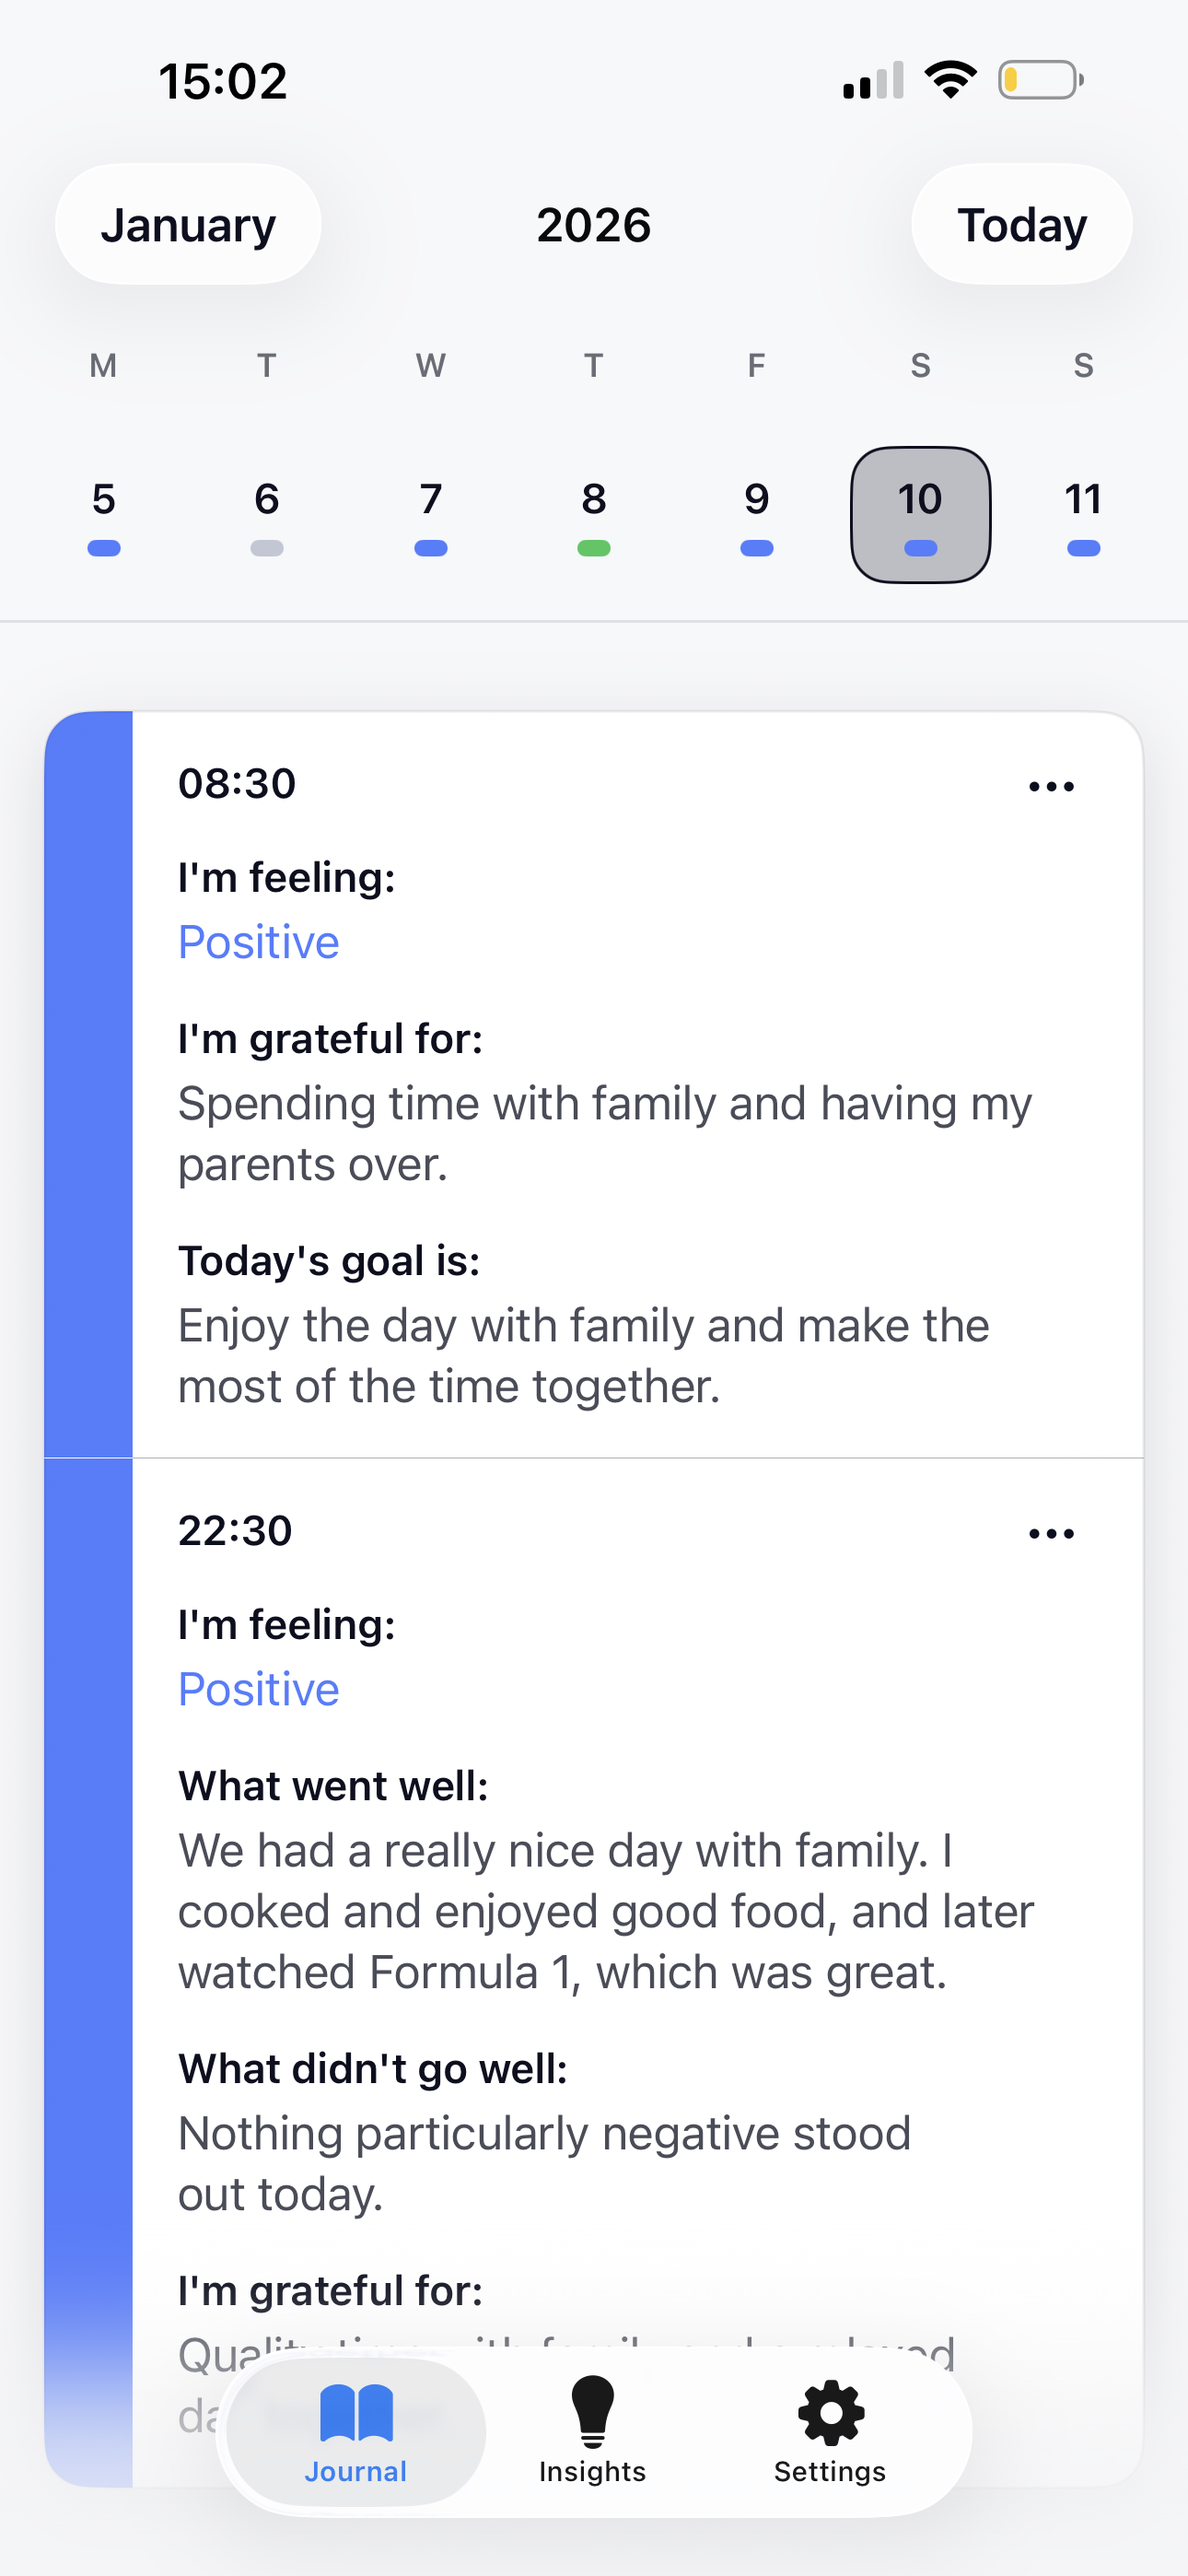
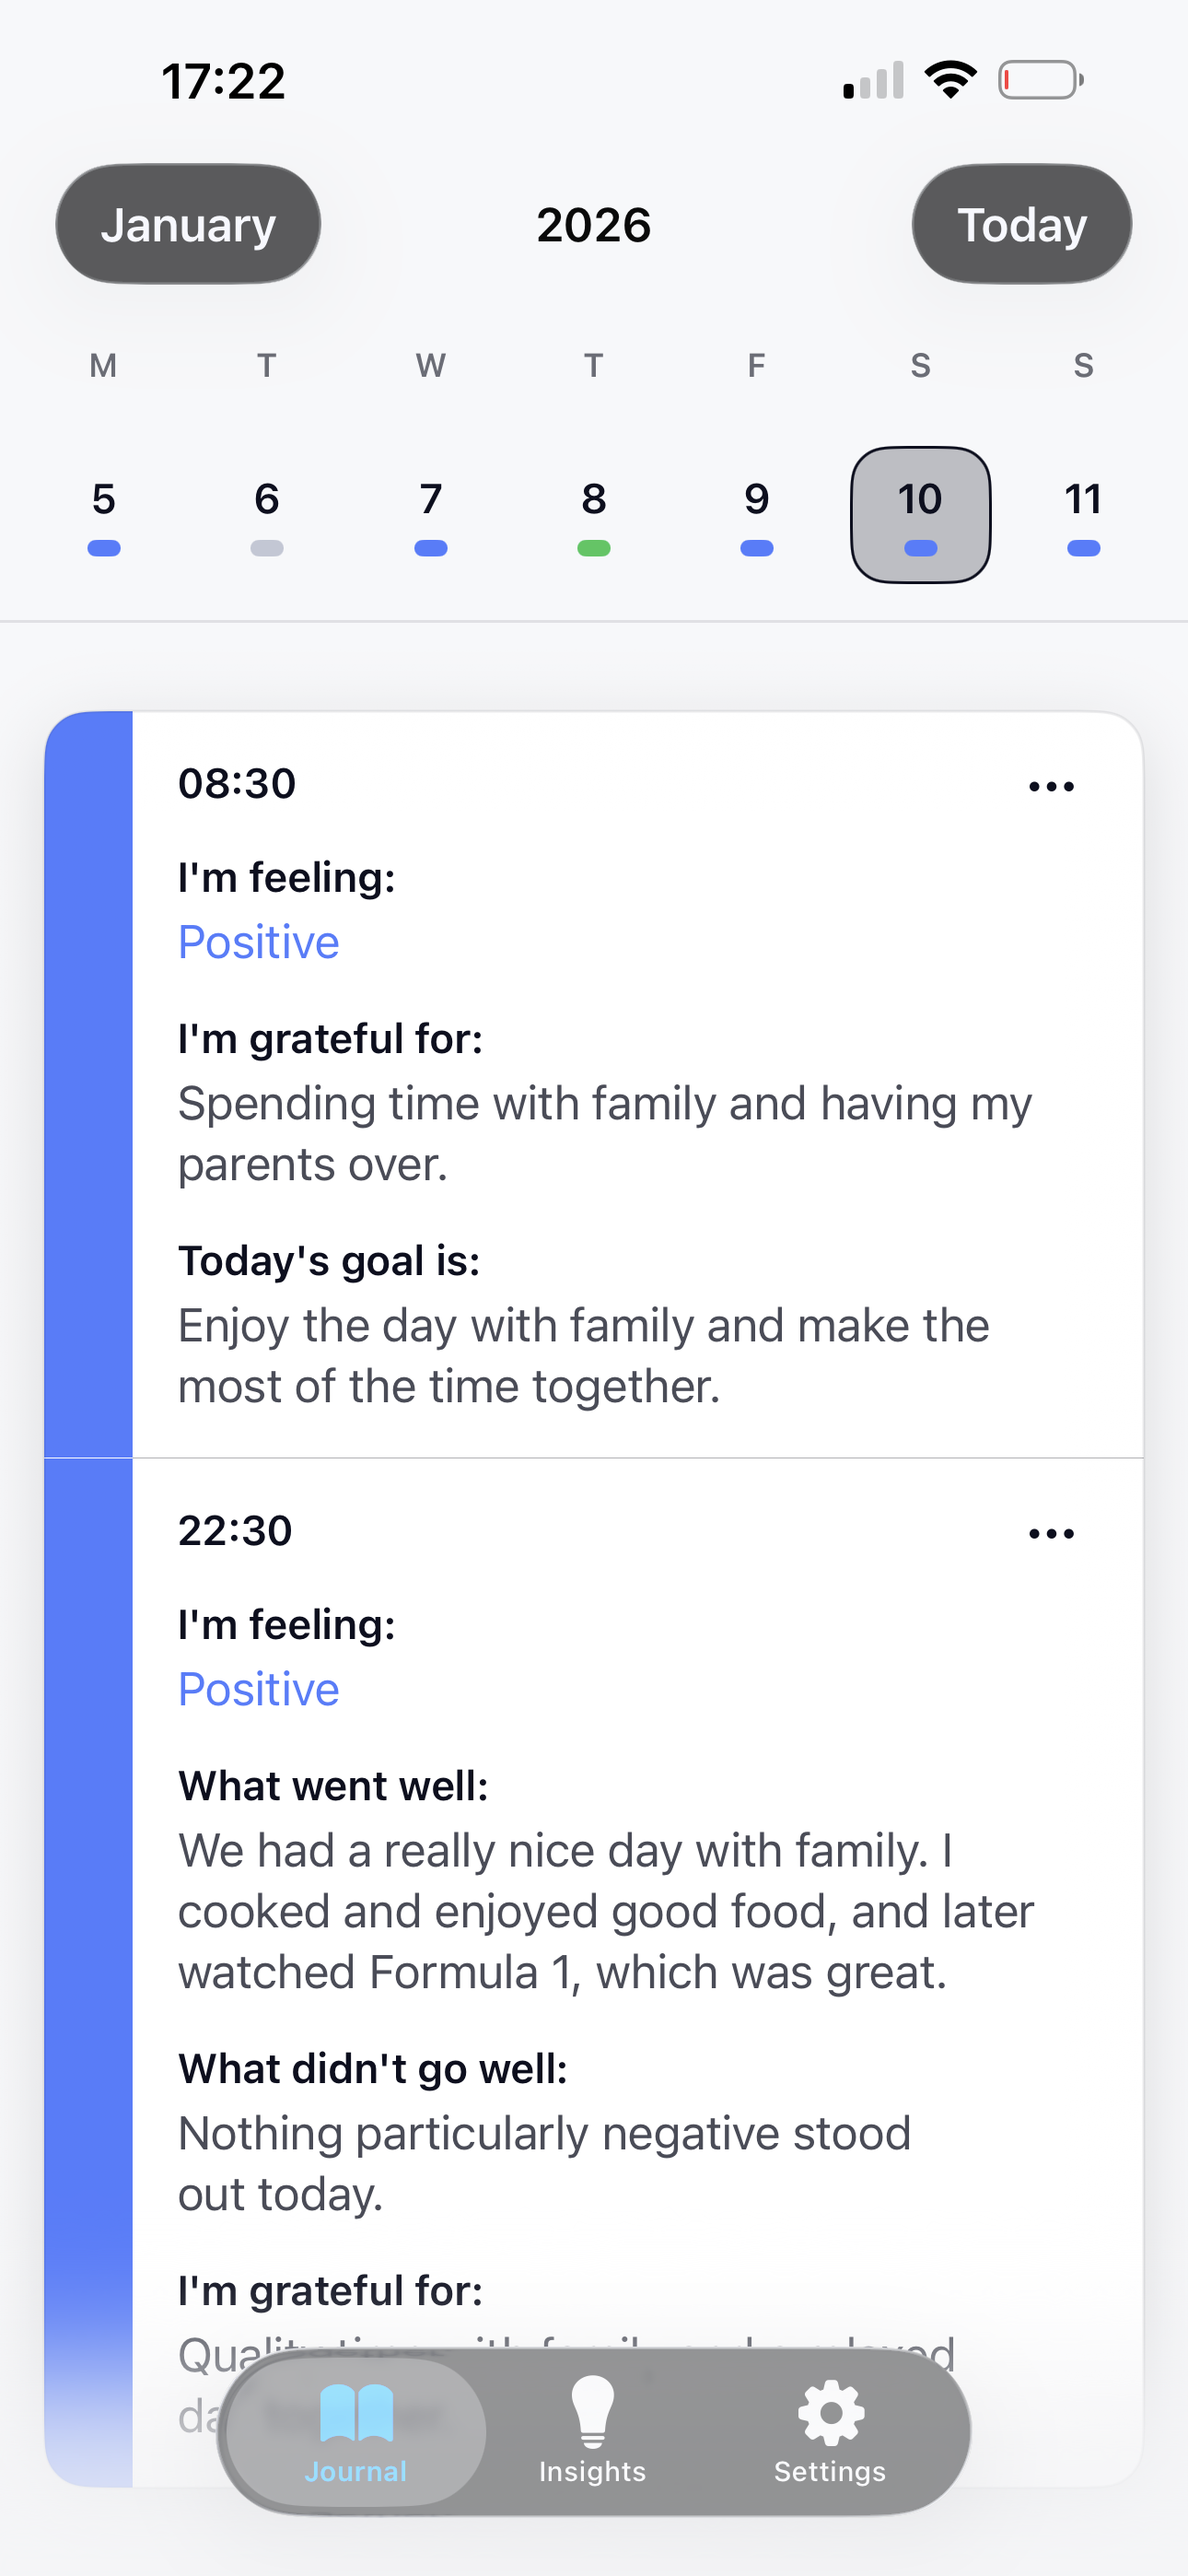
Use light dark screenshot pairs across site

Changed region(s): [[0.186, 0.9024, 0.8372, 0.9957], [0.031, 0.0311, 0.2791, 0.1245], [0.7442, 0.0622, 0.9612, 0.1245]]

diff --git a/index.html b/index.html
@@ -134,16 +134,28 @@
             </div>
             <div class="gallery-visuals">
               <figure class="shot-frame shot-tall shot-light">
-                <img
-                  src="./assets/screenshots/light/checkin.png"
-                  alt="Upp light mode morning check-in screen"
-                />
+                <picture>
+                  <source
+                    srcset="./assets/screenshots/dark/checkin.png"
+                    media="(prefers-color-scheme: dark)"
+                  />
+                  <img
+                    src="./assets/screenshots/light/checkin.png"
+                    alt="Upp morning check-in screen"
+                  />
+                </picture>
               </figure>
               <figure class="shot-frame shot-tall shot-light">
-                <img
-                  src="./assets/screenshots/light/journal-entry.png"
-                  alt="Upp journal day detail with morning and evening entries"
-                />
+                <picture>
+                  <source
+                    srcset="./assets/screenshots/dark/journal-entry.png"
+                    media="(prefers-color-scheme: dark)"
+                  />
+                  <img
+                    src="./assets/screenshots/light/journal-entry.png"
+                    alt="Upp journal day detail with morning and evening entries"
+                  />
+                </picture>
               </figure>
             </div>
           </div>
@@ -151,16 +163,28 @@
           <div class="gallery-row">
             <div class="gallery-visuals gallery-visuals-wide">
               <figure class="shot-frame shot-tall shot-light">
-                <img
-                  src="./assets/screenshots/light/journal-history.png"
-                  alt="Upp journal history calendar screen"
-                />
+                <picture>
+                  <source
+                    srcset="./assets/screenshots/dark/journal-history.png"
+                    media="(prefers-color-scheme: dark)"
+                  />
+                  <img
+                    src="./assets/screenshots/light/journal-history.png"
+                    alt="Upp journal history calendar screen"
+                  />
+                </picture>
               </figure>
               <figure class="shot-frame shot-tall shot-light">
-                <img
-                  src="./assets/screenshots/light/journal-entry.png"
-                  alt="Upp journal day detail with morning and evening entries"
-                />
+                <picture>
+                  <source
+                    srcset="./assets/screenshots/dark/journal-entry.png"
+                    media="(prefers-color-scheme: dark)"
+                  />
+                  <img
+                    src="./assets/screenshots/light/journal-entry.png"
+                    alt="Upp journal day detail with morning and evening entries"
+                  />
+                </picture>
               </figure>
             </div>
             <div class="gallery-copy stack-md">
@@ -186,10 +210,16 @@
             </div>
             <div class="gallery-visuals">
               <figure class="shot-frame shot-tall shot-light">
-                <img
-                  src="./assets/screenshots/light/journal-history-year.png"
-                  alt="Upp extended journal history view across multiple months"
-                />
+                <picture>
+                  <source
+                    srcset="./assets/screenshots/dark/journal-history-year.png"
+                    media="(prefers-color-scheme: dark)"
+                  />
+                  <img
+                    src="./assets/screenshots/light/journal-history-year.png"
+                    alt="Upp extended journal history view across multiple months"
+                  />
+                </picture>
               </figure>
               <figure class="shot-frame shot-tall hero-shot">
                 <picture>
@@ -217,16 +247,28 @@
             </div>
             <div class="gallery-visuals gallery-visuals-wide">
               <figure class="shot-frame shot-tall shot-light">
-                <img
-                  src="./assets/screenshots/light/insights.png"
-                  alt="Upp insights screen with streaks and mood trend"
-                />
+                <picture>
+                  <source
+                    srcset="./assets/screenshots/dark/insights.png"
+                    media="(prefers-color-scheme: dark)"
+                  />
+                  <img
+                    src="./assets/screenshots/light/insights.png"
+                    alt="Upp insights screen with streaks and mood trend"
+                  />
+                </picture>
               </figure>
               <figure class="shot-frame shot-tall shot-light">
-                <img
-                  src="./assets/screenshots/light/reminders.png"
-                  alt="Upp reminders settings screen"
-                />
+                <picture>
+                  <source
+                    srcset="./assets/screenshots/dark/reminders.png"
+                    media="(prefers-color-scheme: dark)"
+                  />
+                  <img
+                    src="./assets/screenshots/light/reminders.png"
+                    alt="Upp reminders settings screen"
+                  />
+                </picture>
               </figure>
             </div>
           </div>
